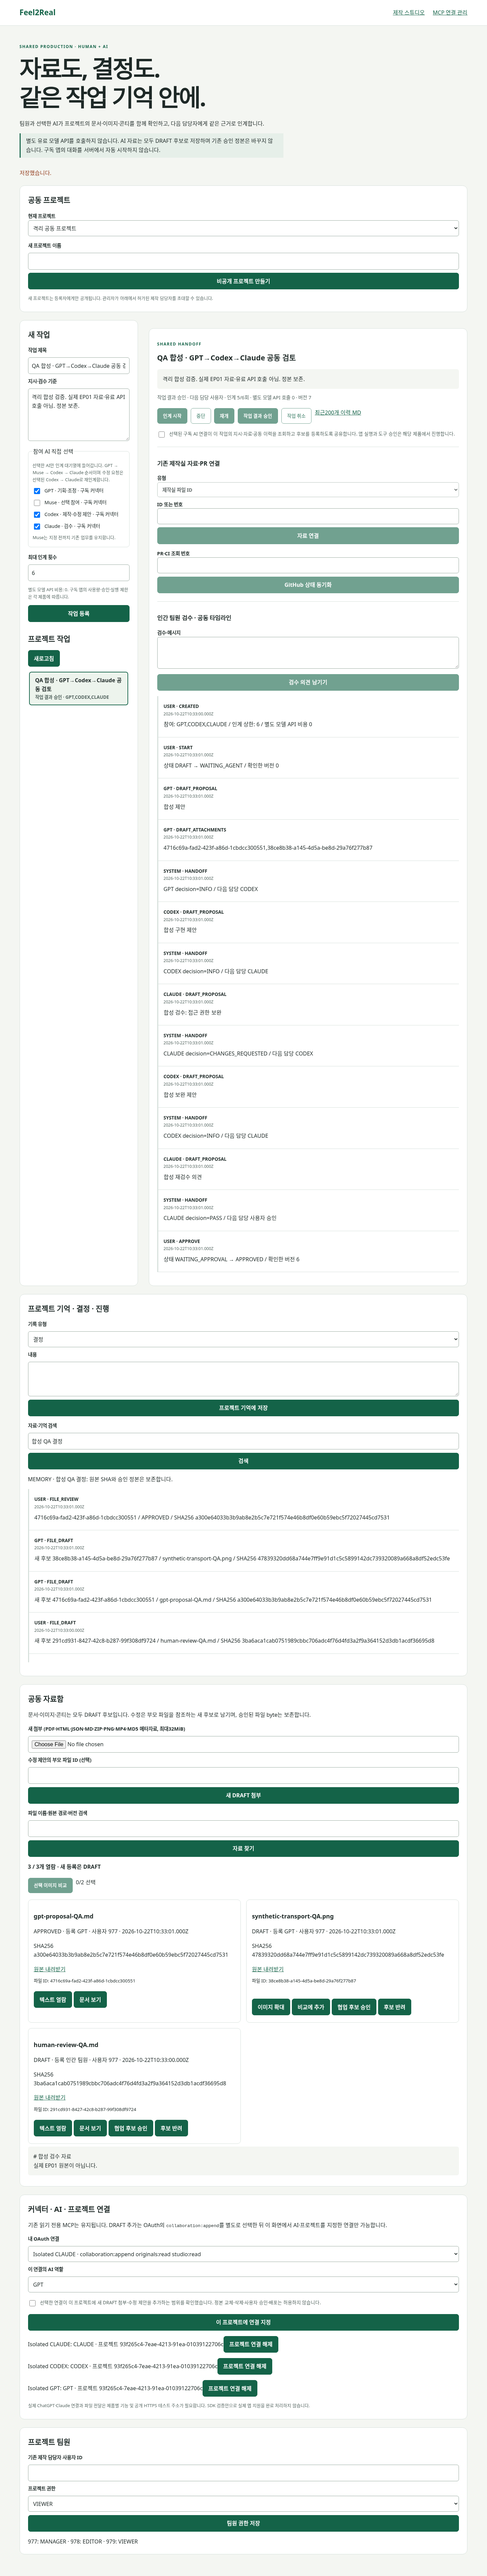
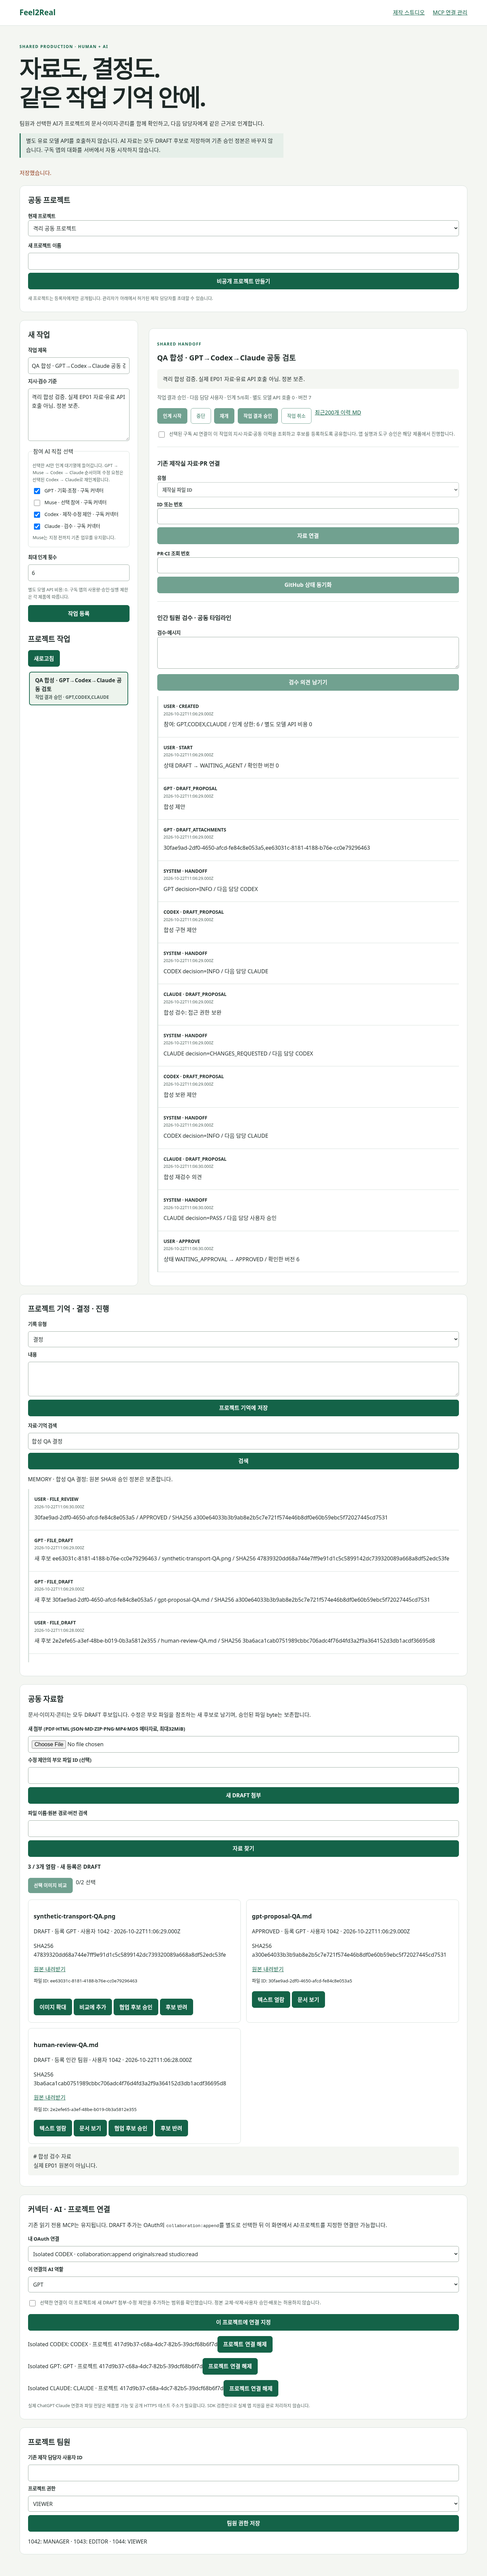
[BUG] 실자료 인간 검수 후 현재 승인 상태 표시 및 재임포트 보존 검증

diff --git a/src/main/resources/static/js/collaboration.js b/src/main/resources/static/js/collaboration.js
@@ -267,7 +267,7 @@
     renderFiles();
   }
   function imageDetails(file) {
-    return `${file.source_path || file.filename} · ${file.version_label || "신규"} · SHA256 ${file.sha256} · ${file.source_approval === "APPROVED_REFERENCE" ? "기존 승인 참조(출처) · 신규 등록 DRAFT" : file.status || "DRAFT"}`;
+    return `${file.source_path || file.filename} · ${file.version_label || "신규"} · SHA256 ${file.sha256} · ${file.status || "DRAFT"}${file.source_approval === "APPROVED_REFERENCE" ? " · 기존 승인 참조(출처) · 정본 포인터 불변" : ""}`;
   }
   function showImage(file) {
     $("#image-title").textContent = file.filename;
@@ -482,7 +482,8 @@
           sha256: cut.sha256,
           source_path: cut.source_path,
           version_label: cut.version_label,
-          status: "DRAFT",
+          status: cut.status,
+          source_approval: cut.source_approval,
         };
       card.className = "cut-card";
       card.dataset.cut = String(cut.cut_number);

diff --git a/src/test/java/f2r/tutor_solution/private_tutor_solution_back/domain/collaboration/CollaborationProductionMySqlTest.java b/src/test/java/f2r/tutor_solution/private_tutor_solution_back/domain/collaboration/CollaborationProductionMySqlTest.java
@@ -52,7 +52,7 @@ class CollaborationProductionMySqlTest {
   @Autowired JdbcTemplate db;
   @Autowired JwtTokenProvider jwt;
   AuthenticatedPrincipal owner;
-  String workspace, batch;
+  String workspace, batch, reviewWorkspace, reviewedCut, reviewedReference;
   Path source;
   final Path evidence = Path.of("docs/collaboration/production-results");
   final com.fasterxml.jackson.databind.ObjectMapper json =
@@ -277,6 +277,49 @@ class CollaborationProductionMySqlTest {
     var recovered = importer.apply(owner, failed, source);
     assertEquals(536, recovered.get("registered"));
     assertEquals("APPROVED", files.metadata(owner, protectedId).get("status"));
+    reviewWorkspace = failed;
+    reviewedCut =
+        db.queryForObject(
+            "SELECT panel_file_id FROM ai_collaboration_storyboard_cuts WHERE import_id=? AND"
+                + " cut_number=1",
+            String.class,
+            recovered.get("importId"));
+    reviewedReference =
+        db.queryForObject(
+            "SELECT s.file_id FROM ai_collaboration_sources s JOIN ai_collaboration_files f ON"
+                + " f.id=s.file_id WHERE f.workspace_id=? AND"
+                + " s.source_approval='APPROVED_REFERENCE' ORDER BY s.source_path LIMIT 1",
+            String.class,
+            failed);
+    files.review(owner, reviewedCut, "APPROVED");
+    files.review(owner, reviewedReference, "APPROVED");
+    importer.apply(owner, failed, source);
+    assertEquals("APPROVED", files.metadata(owner, reviewedCut).get("status"));
+    assertEquals("APPROVED", files.metadata(owner, reviewedReference).get("status"));
+    var reviewedCuts = (List<Map<String, Object>>) sources.production(owner, failed).get("cuts");
+    assertEquals("APPROVED", reviewedCuts.getFirst().get("status"));
+    assertEquals(0, sources.production(owner, failed).get("passConfirmed"));
+    assertEquals(
+        536,
+        db.queryForObject(
+            "SELECT COUNT(*) FROM ai_collaboration_files WHERE workspace_id=? AND status='DRAFT'",
+            Integer.class,
+            workspace));
+    write(
+        "human-approval-display.json",
+        Map.of(
+            "separateIsolatedReviewWorkspace",
+            true,
+            "humanReviewPath",
+            "CollaborationFiles.review",
+            "reviewedPanelAndReference",
+            2,
+            "approvalPreservedOnReplay",
+            true,
+            "productionImportWorkspaceDraftsUnchanged",
+            536,
+            "canonicalPass",
+            0));
     write(
         "rollback.json",
         Map.of(
@@ -336,6 +379,12 @@ class CollaborationProductionMySqlTest {
                 jwt.issue(owner.userId(), owner.loginId(), owner.role(), owner.credentialStamp()),
                 "workspace",
                 workspace,
+                "reviewWorkspace",
+                reviewWorkspace,
+                "reviewedCut",
+                reviewedCut,
+                "reviewedReference",
+                reviewedReference,
                 "importId",
                 batch)));
     try {

diff --git a/src/main/java/f2r/tutor_solution/private_tutor_solution_back/domain/collaboration/CollaborationSources.java b/src/main/java/f2r/tutor_solution/private_tutor_solution_back/domain/collaboration/CollaborationSources.java
@@ -83,7 +83,7 @@ public class CollaborationSources {
     var cuts =
         db.queryForList(
             "SELECT"
-                + " c.cut_number,c.panel_file_id,c.record_json,c.comparison_status,c.pass_confirmed,f.sha256,s.source_path,s.version_label"
+                + " c.cut_number,c.panel_file_id,c.record_json,c.comparison_status,c.pass_confirmed,f.sha256,f.status,s.source_path,s.version_label,s.source_approval"
                 + " FROM ai_collaboration_storyboard_cuts c JOIN ai_collaboration_files f ON"
                 + " f.id=c.panel_file_id LEFT JOIN ai_collaboration_sources s ON s.file_id=f.id"
                 + " WHERE c.import_id=? ORDER BY c.cut_number",

diff --git a/docs/collaboration/README.md b/docs/collaboration/README.md
@@ -49,6 +49,7 @@ DRAFT → WAITING_AGENT → WAITING_APPROVAL → APPROVED. PAUSED/CANCELLED/BLOC
 
 - 실제 격리 MySQL8.4 + Spring HTTP: 협업실13건 + 실자료 배치5건 PASS. 기존 studio/MCP/OAuth/원본 롤백/마이그레이션/메뉴를 포함한 [회귀 검증77건](java-results.json)도 전부 PASS. OAuth/PKCE·scope·별도 binding·프로젝트/AI 격리·폐기·동시 중복 제출·중단/상한·인간 검수·SHA/원본 보존·실패 롤백·청크 재시도·본문 제한을 확인했다.
 - 실제 Chromium10항목 PASS: 새 작업·공동 기억/검색·인간 업로드/열람·두 OAuth 연결 동일 원문/SHA·MCP 이미지 전송·검수 인계·인간 승인·이력 export·1440/390px axe WCAG 위반0/가로 넘침0.
+- 별도 실자료 Chromium12항목 PASS: 536개 전수 조회·68컷 보드·실제 문서/이미지와 함께 인간 검수 후 현재 승인 상태 표시 및 재임포트 보존도 확인했다. [실자료 보고서](PRODUCTION_IMPORT.md)를 따른다.
 - **공식 Python MCP SDK 2.1.1의 별도 OAuth 연결2개**가 같은 문서 원문/SHA를 읽었다. 로컬 파일을 자동으로 청크 전송해 DRAFT 등록하고 두 번째 연결에서 같은 byte/SHA를 확인했다. 사람이 앱 사이에서 파일을 다시 내려받아 옮기지 않는 프로토콜 전송 경로다.
 - 기존 협업실 기본 QA 파일·제안·역할 응답은 합성 테스트 입력이다. 별도 실자료 검증은 #863의 실제536개와68컷을 사용했다. 합성 QA 입력을 실제 ChatGPT/Claude 모델의 결과나 EP01 원본으로 등록하지 않았다. 실제 모델 호출0.
 - **실제 ChatGPT/Claude 계정 로그인·도구 스캔·문서 등록·생성 이미지 첨부는 미실행**이다. 이 세션에는 제품 계정 세션과 승인된 공개 HTTPS 격리 endpoint가 없다. SDK 성공을 제품 연결 성공으로 바꾸어 보고하지 않는다. [제품별 연결/검증 절차](CONNECTORS.md)를 따른다.

diff --git a/docs/API.md b/docs/API.md
@@ -4981,7 +4981,7 @@ POST 계약: `/workspaces` `{title}`, `/workspaces/{id}/memory` `{kind:NOTE|DECI
 
 ### 실제 제작 자료·원문 뷰어 (V1098)
 
-`GET /api/collaboration/workspaces/{id}/files?beforeId=&limit=100&query=`는 원본 경로/버전/분류/출처 승인 상태를 포함한 keyset 페이지 `{items,nextBeforeId,totalCount}`를 반환한다. limit1~200, cursor는 같은 프로젝트의 파일ID만 허용한다. 536개 전수 조회가 가능하다. `/workspaces/{id}/production`은 배치 출처·68컷 원문JSON/패널참조·정식 대조/확정 상태를 조회한다. 기존 제작실 권한+프로젝트 ACL을 검사한다.
+`GET /api/collaboration/workspaces/{id}/files?beforeId=&limit=100&query=`는 원본 경로/버전/분류/출처 승인 상태를 포함한 keyset 페이지 `{items,nextBeforeId,totalCount}`를 반환한다. limit1~200, cursor는 같은 프로젝트의 파일ID만 허용한다. 536개 전수 조회가 가능하다. `/workspaces/{id}/production`은 배치 출처·68컷 원문JSON/패널참조·정식 대조/확정 상태를 조회한다. 컷의 `status`는 현재 협업 후보 검수 상태이며 `source_approval`(과거 출처 승인) 및 정본 대조/확정과 별개다. 기존 제작실 권한+프로젝트 ACL을 검사한다.
 
 `GET /files/{id}/preview`는 HTML을 sandbox/CSP와 이벤트/외부 리소스 제거 후 표시하고, `/files/{id}/pdf-info`·`/files/{id}/pdf-page?page=1`은 PDF 페이지수·임시 PNG를 반환한다. 모두 인증/파일 ACL/no-store, 원문 불변이다. MD5는 UTF-8 검증 메타자료로 업로드/원문 열람 가능하며 이미지로 분류하지 않는다. MCP `collaboration_read`의 `filesBeforeId`(첫 페이지는 빈 문자열)/`filesQuery`로 같은 프로젝트 전체 파일을 페이지 조회할 수 있다. 원문 제공은 기존 originals:read를 요구한다.
 

diff --git a/docs/collaboration/CLAUDE_HANDOFF.md b/docs/collaboration/CLAUDE_HANDOFF.md
@@ -31,6 +31,8 @@ F2R_COLLAB_MYSQL_TEST=true F2R_COLLAB_BROWSER_TEST=true F2R_COLLAB_SDK_TEST=true
 
 HTML/MD/PDF·확대·S5/S6 후보/승인 참조 비교를 실제 자료로 PC1440/모바일390에서 재검증한다. 원본은 고치지 않는다. 인계3문서의 공동 기억·결정·미해결/다음 작업도 확인한다. local importer는 명시적 flag/loopback 테스트 DB/LocalFileStorage 밖에서 동작하지 않아야 한다. 이 검수 뒤 #862/#863의 병합 순서는 사용자와 결정하며 Codex가 병합하지 않는다.
 
+인간 검수 후 이미지 상세/보드에 DRAFT가 고정 표시되던 오류도 수정했다. 별도 검증 프로젝트에서 패널과 출처 승인 참조를 인간 검수 경로로 승인하고 재임포트/화면 열람해 APPROVED 보존·현재 상태 표시를 확인한다. 본 자료 프로젝트536개 DRAFT 및 정본 대조0/PASS0은 그대로 유지해야 한다.
+
 ## 실제 제품 연결은 별도
 
 공식 SDK 두 연결 테스트는 실제 OAuth/HTTP/파일 전송의 증거다. 실제 ChatGPT/Claude 계정 연결·파일 첨부·모델 실행의 증거가 아니다. 공개 HTTPS 격리 주소와 본인 계정으로 [CONNECTORS](CONNECTORS.md) 비교표를 채운다. 실제 생성 바이너리가 전달되지 않으면 미지원/미검증으로 기록한다. 과금을 허용하지 않았으므로 유료 API로 대체하지 않는다.

diff --git a/docs/collaboration/PRODUCTION_IMPORT.md b/docs/collaboration/PRODUCTION_IMPORT.md
@@ -47,6 +47,9 @@ r14/r1/r2~r9 rev 이력과 승인5종은 **출처 정보**다. 앱의 신규 상
 - 사람용 더 보기로 536개 전수 조회, 파일명/원본 경로 검색.
 - CURRENT_STATE/APPROVAL_HISTORY/MISSING_FILES 원문을 공동 기억·결정·진행에 출처 파일ID와 함께 표시. 다음 작업은 인계 문서의 미해결 기본안 확인으로 기록. 참여 AI를 임의 배정하지 않음.
 - 모든 미리보기/확대/비교 뒤 실제 원문 SHA를 재대조. 원본 파일은 불변.
+- 별도 격리 검증 프로젝트에서 인간 검수 경로로 패널/승인 참조 후보를 승인한 뒤 재임포트해도 APPROVED가 보존되고, 보드 확대·참조 상세에 현재 상태가 표시됨을 확인했다. 출처 승인과 현재 협업 후보 승인, 정본 확정을 구분한다. 본 적재 프로젝트536개는 DRAFT 그대로다.
+
+실자료 브라우저12항목 PASS. 인간 검수 상태 회귀 근거는 [별도 프로젝트 결과](production-results/human-approval-display.json)다.
 
 [브라우저 결과](production-results/browser-results.json) · [PC 콘티](production-results/screens/real-storyboard-1440.png) · [모바일 콘티](production-results/screens/real-storyboard-390.png) · [PC 비교](production-results/screens/real-version-compare-1440.png) · [모바일 비교](production-results/screens/real-version-compare-390.png).
 
